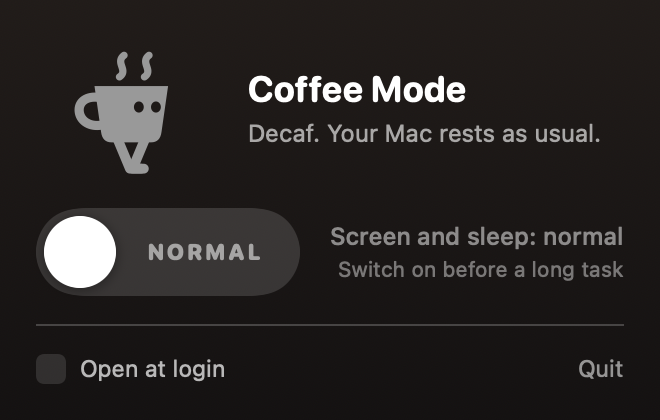
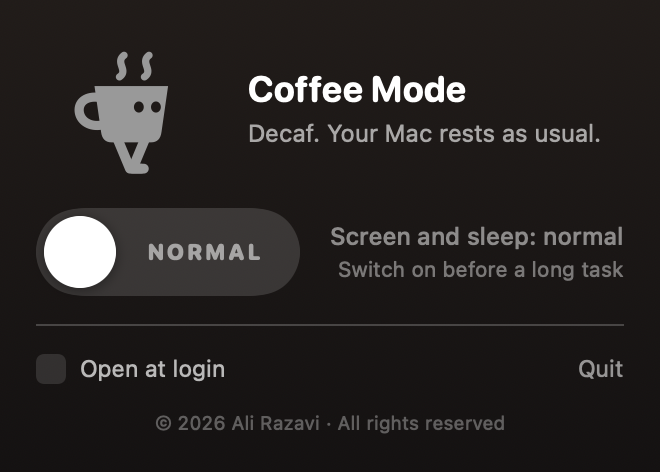
Show the ownership line in the panel Co-Authored-By: Claude Fable 5.2 <noreply@anthropic.com>

diff --git a/src/main.swift b/src/main.swift
@@ -210,6 +210,8 @@ struct Card: View {
                 Button("Quit") { m.set(false); NSApp.terminate(nil) }
                     .buttonStyle(.plain).font(.system(size: 11.5)).foregroundColor(.white.opacity(0.55))
             }
+            Text("© 2026 Ali Razavi · All rights reserved")
+                .font(.system(size: 9.5)).foregroundColor(.white.opacity(0.32)).frame(maxWidth: .infinity, alignment: .center)
         }
         .padding(18)
         .frame(width: 330)
